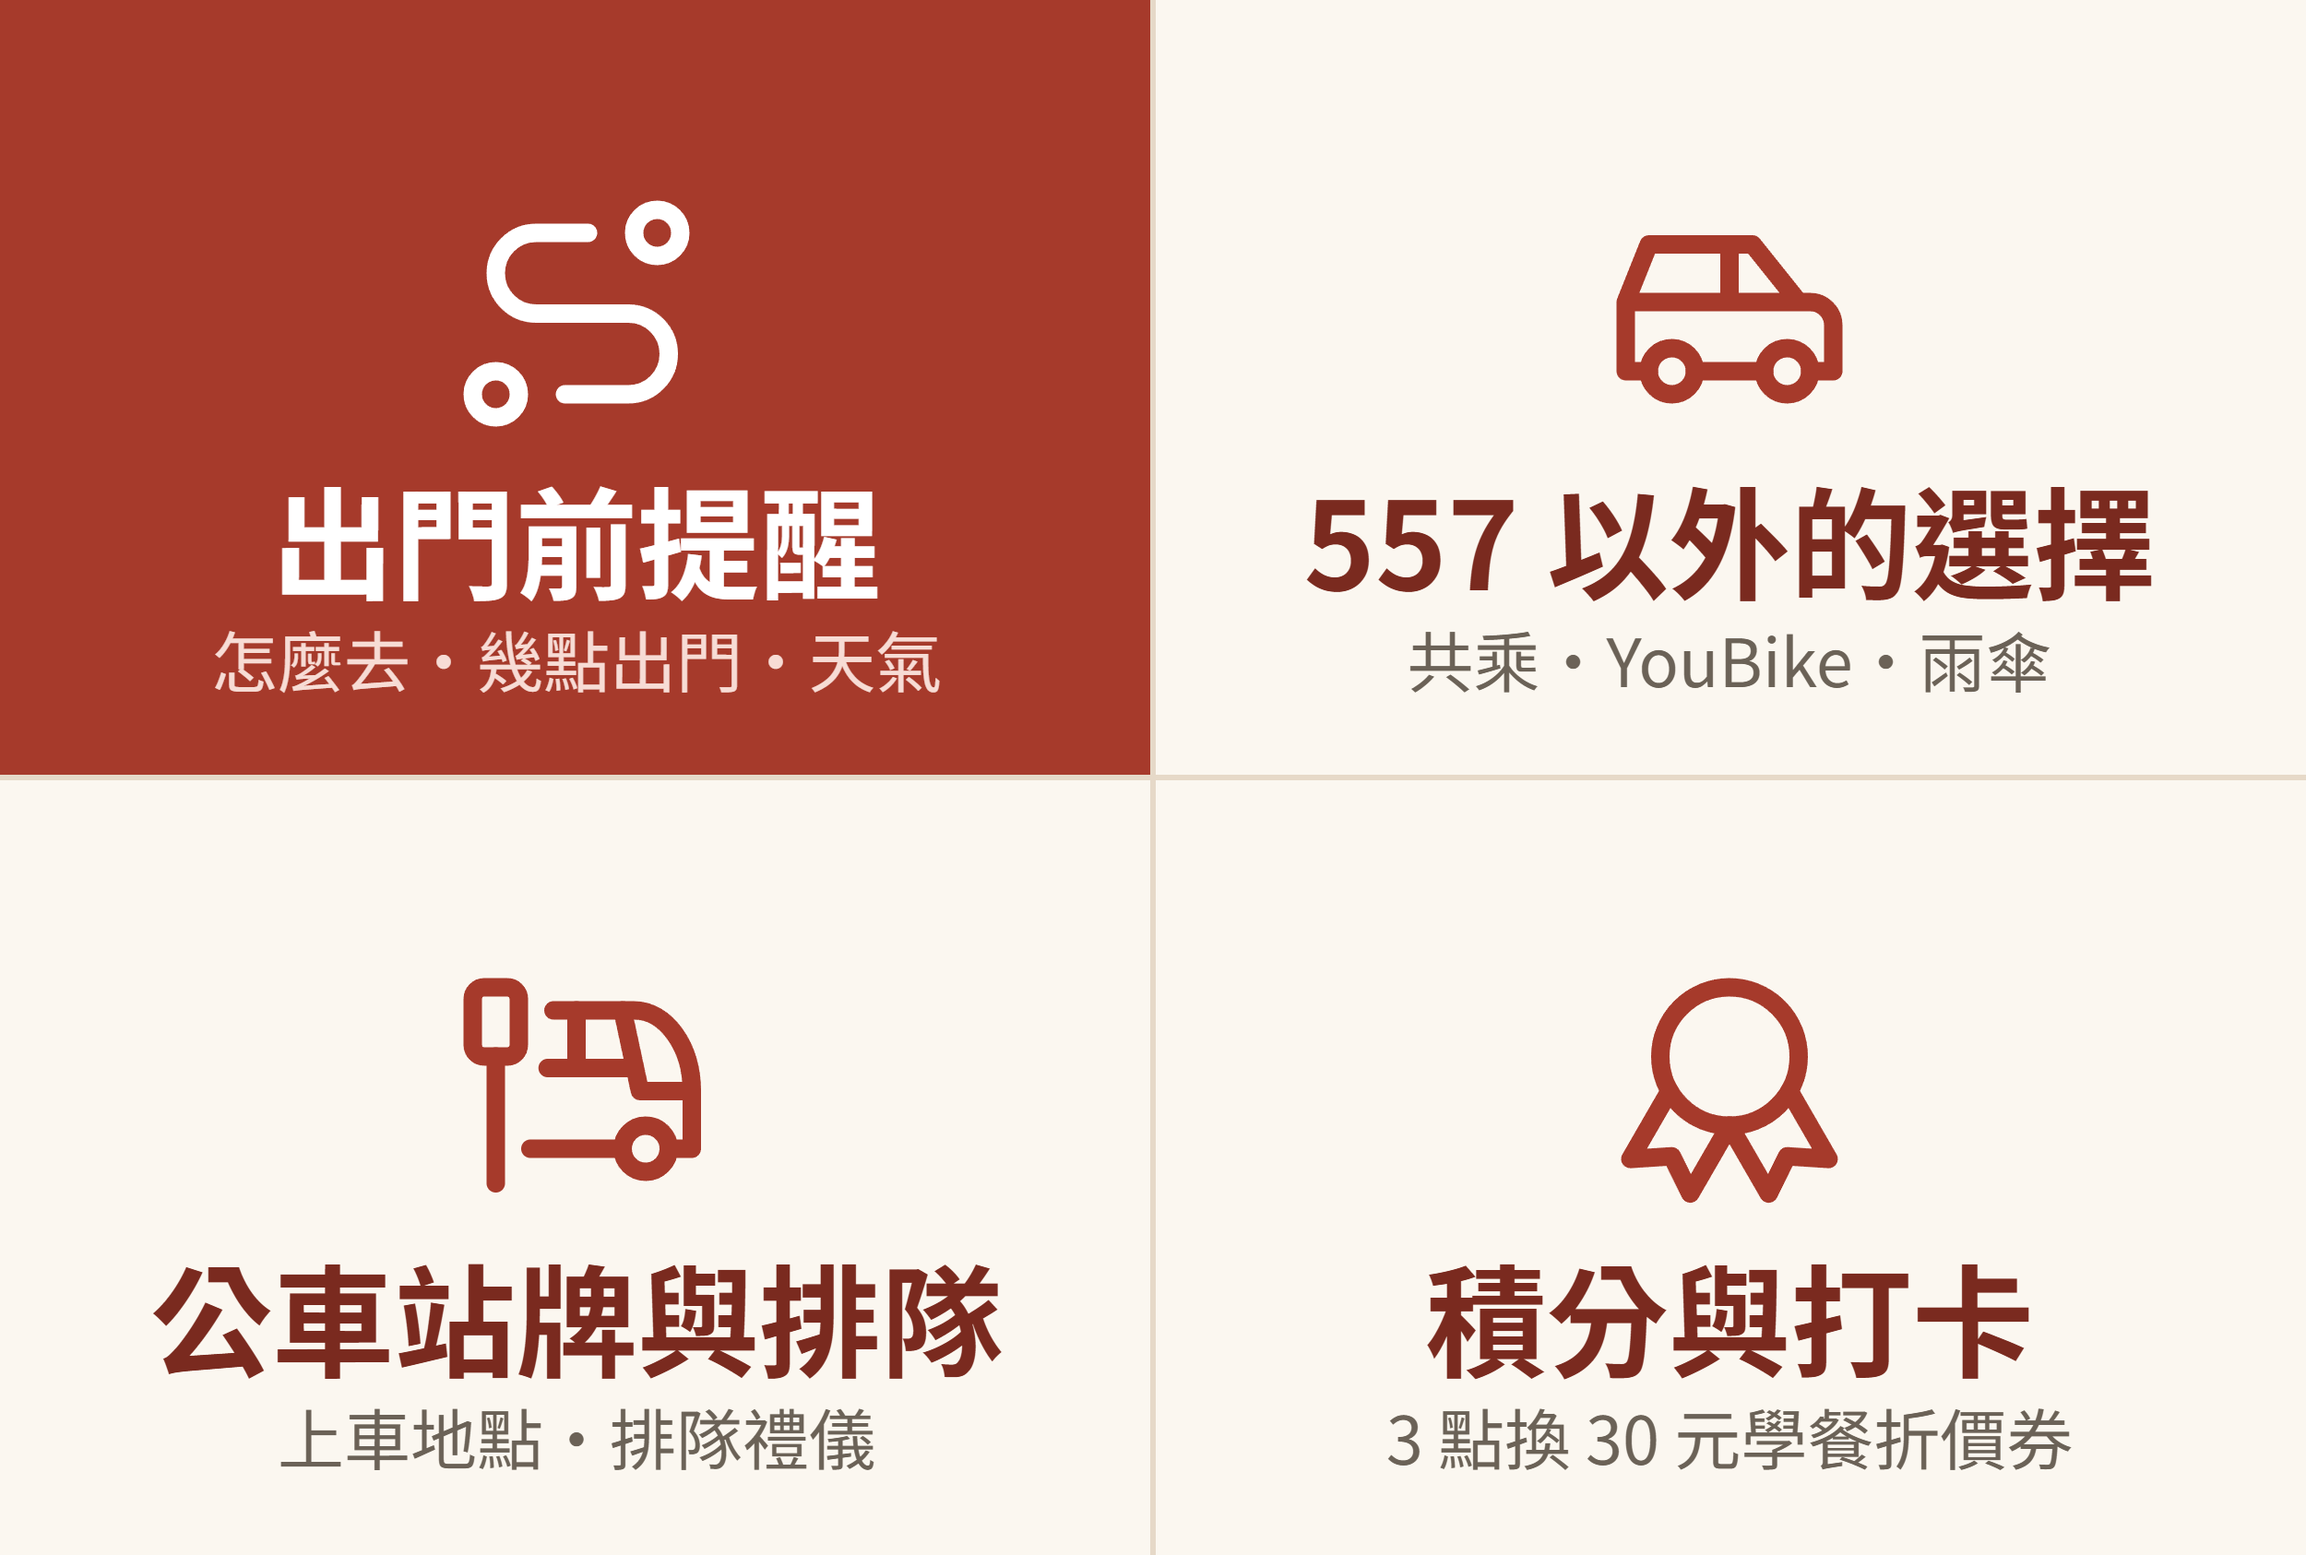
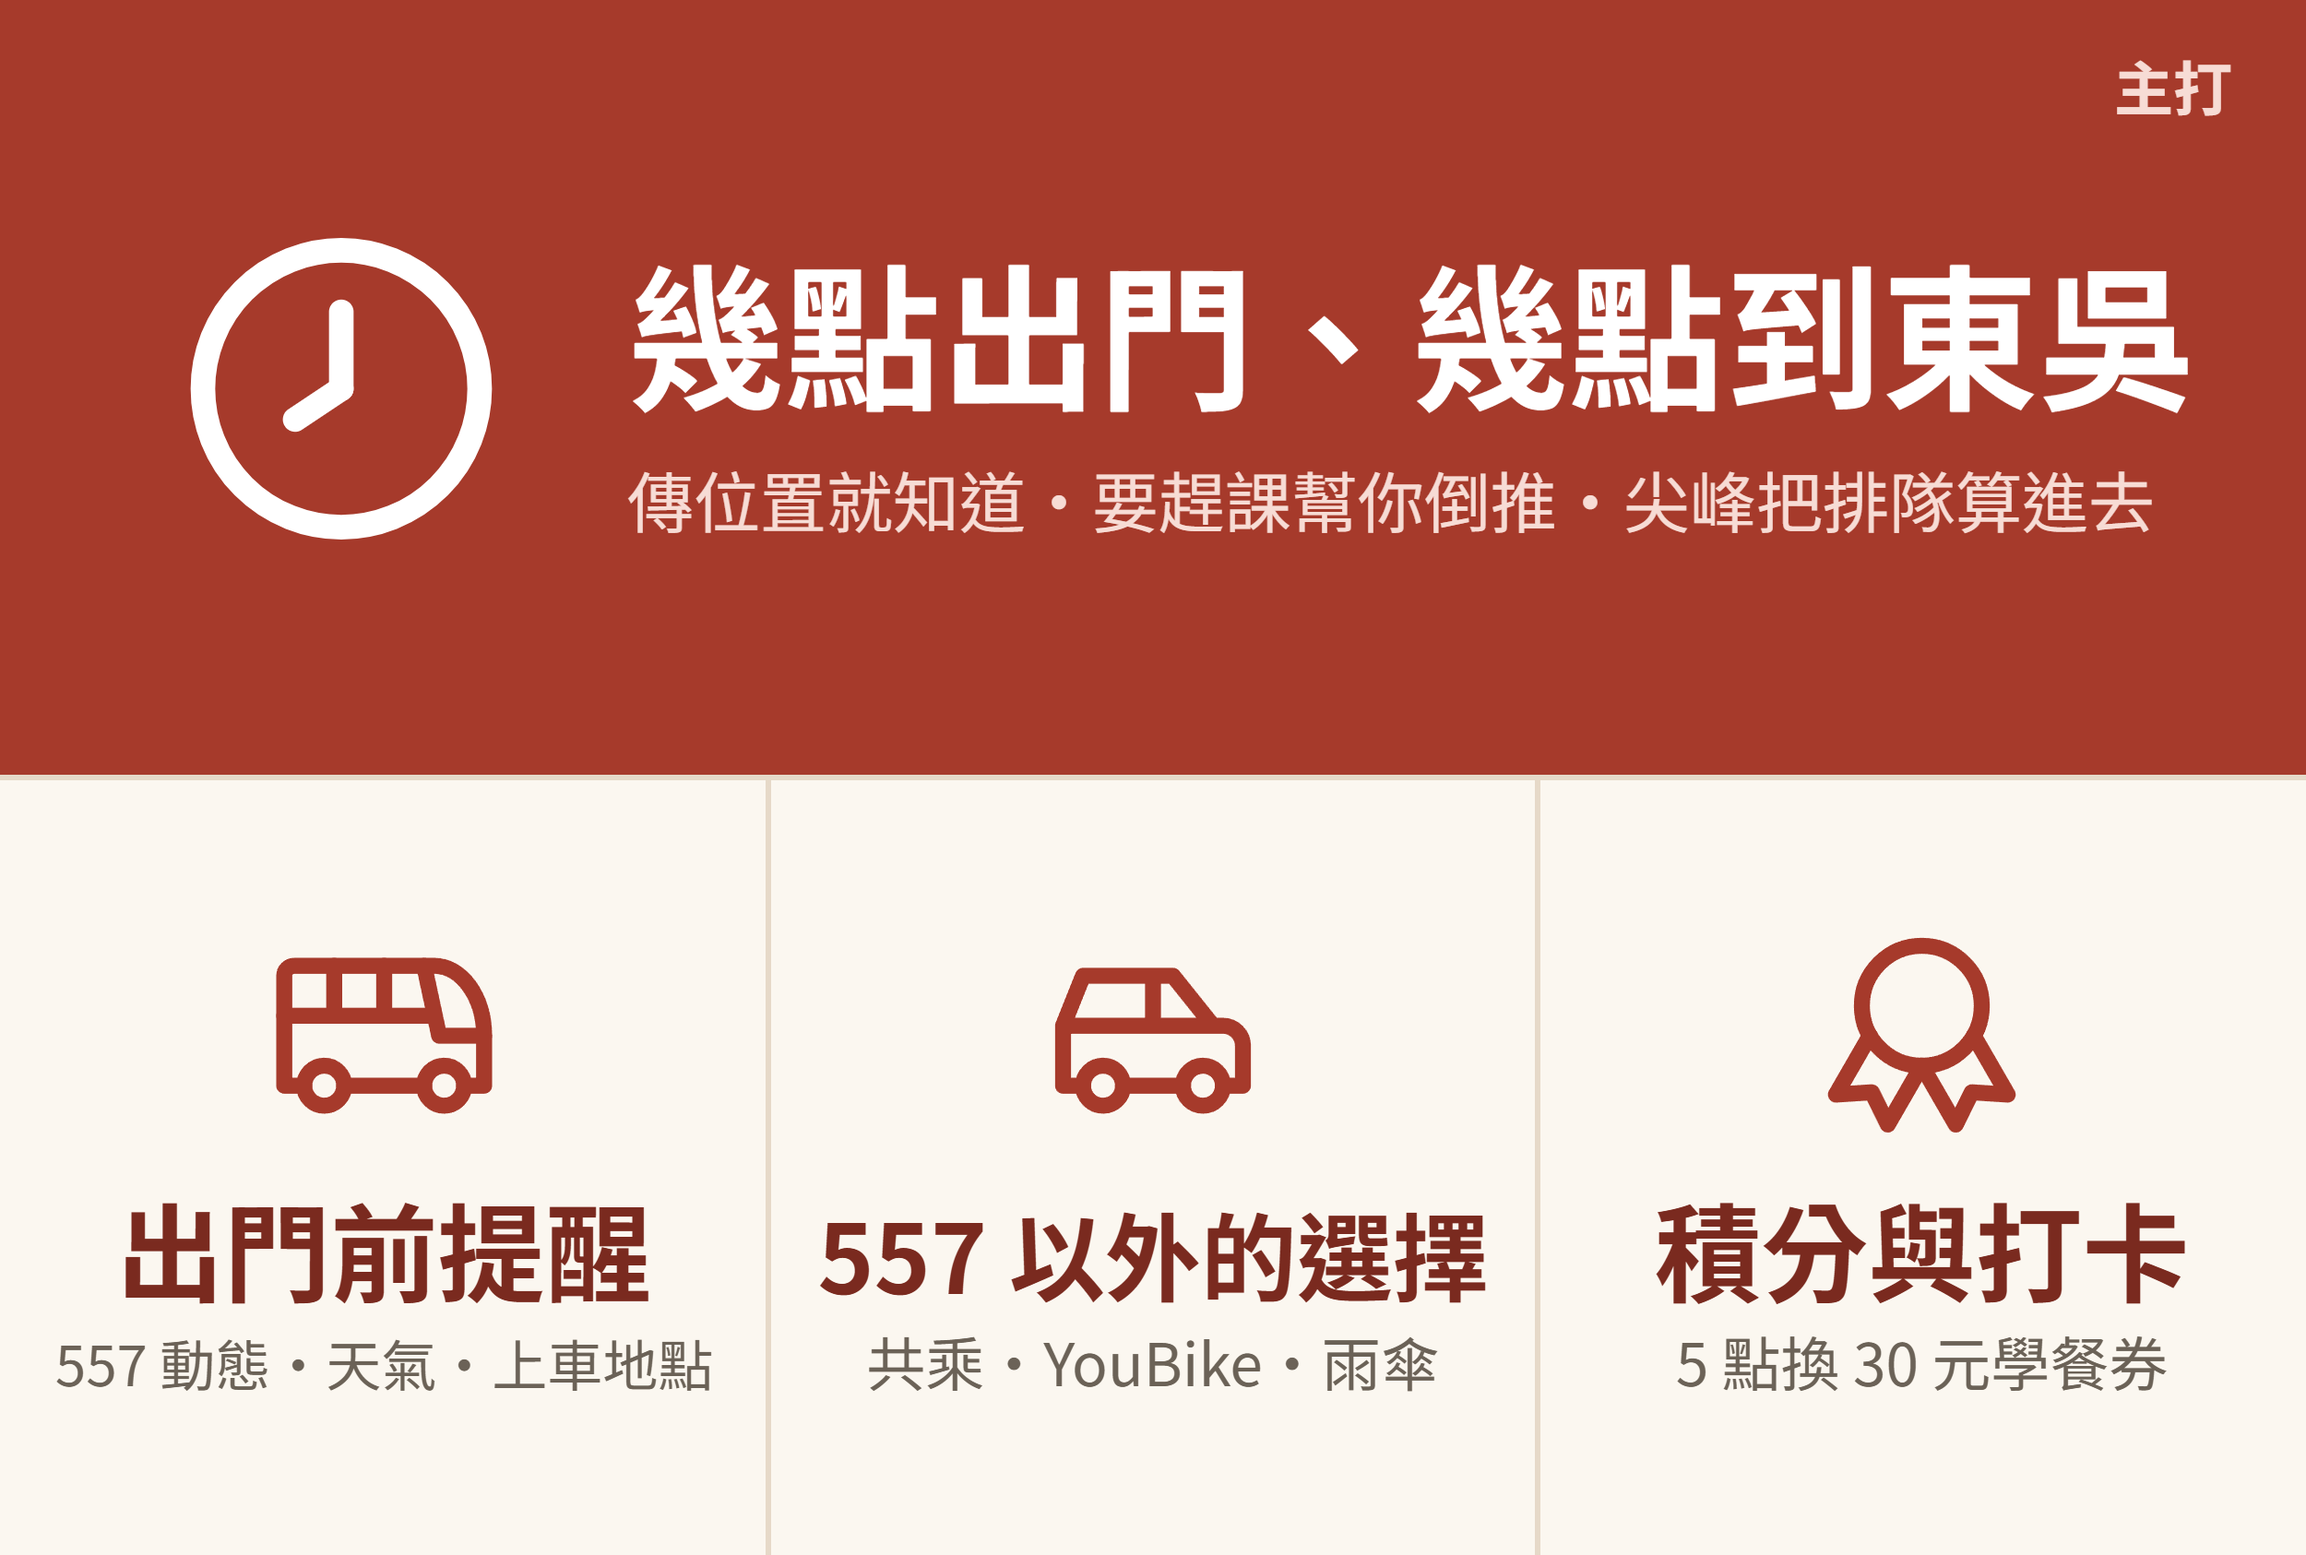
圖文選單改成上面一大格（幾點出門、幾點到東吳）＋下面三格；公車站牌與排隊禮儀併進出門前提醒

diff --git a/tests/preview-design.js b/tests/preview-design.js
@@ -51,13 +51,14 @@ function cardsPage() {
 <div class="wrap" id="cards">${items}</div>`;
 }
 
-// 圖文選單：四個分類（跟 bot/選單.gs 的 MENU 一樣），按了 Bot 會把那一類的功能按鈕傳到聊天室。
-// 上排左到右、下排左到右。text 是按了以後替使用者傳出去的字，要跟 LINE 後台設定的一樣
+// 圖文選單（2500×1686，11/28 改成「上面一大格＋下面三格」）：主打「幾點出門、幾點到東吳」放最上面整排。
+// 每一格的 text 是按了以後替使用者傳出去的字，要跟 LINE 後台設定的一樣（也要是 bot/選單.gs 認得的分類名稱）。
+// rect 是這一格的位置 [x, y, 寬, 高]，LINE 後台用「上 1 下 3」的版型；用 Messaging API 設定時照這個填 bounds。
 const MENU = [
-  { icon: 'route', label: '出門前提醒', hint: '怎麼去・幾點出門・天氣', text: '出門前提醒', primary: true },
-  { icon: 'car', label: '557 以外的選擇', hint: '共乘・YouBike・共享雨傘', text: '557 以外的選擇' },
-  { icon: 'bus-stop', label: '公車站牌與排隊', hint: '上車地點・排隊禮儀', text: '公車站牌與排隊' },
-  { icon: 'award', label: '積分與打卡', hint: '5 點換 30 元學餐折價券', text: '積分與打卡' },
+  { icon: 'clock-hour-8', label: '幾點出門、幾點到東吳', hint: '傳位置就知道・要趕課幫你倒推・尖峰把排隊算進去', text: '幾點出門、幾點到東吳', primary: true, rect: [0, 0, 2500, 843] },
+  { icon: 'bus', label: '出門前提醒', hint: '557 動態・天氣・上車地點', text: '出門前提醒', rect: [0, 843, 833, 843] },
+  { icon: 'car', label: '557 以外的選擇', hint: '共乘・YouBike・雨傘', text: '557 以外的選擇', rect: [833, 843, 834, 843] },
+  { icon: 'award', label: '積分與打卡', hint: '5 點換 30 元學餐券', text: '積分與打卡', rect: [1667, 843, 833, 843] },
 ];
 
 function menuPage() {
@@ -68,9 +69,9 @@ function menuPage() {
 <script>
 var MENU = ${JSON.stringify(MENU)};
 var UI = { brand: '#A63A2B', brandDark: '#7A2A1F', paper: '#FBF7F0', line: '#E6D9C8', muted: '#6B6257', soft: '#F7DCD5' };
-var COLS = MENU.length === 4 ? 2 : 3;
-var W = 2500, H = 1686, CW = W / COLS, CH = H / 2;
+var W = 2500, H = 1686;
 var canvas = document.getElementById('c'), ctx = canvas.getContext('2d');
+var FONT = '"Noto Sans TC","Microsoft JhengHei",sans-serif';
 
 // 圖示用 Tabler Icons（MIT 授權）。抓 SVG 回來把線條換成指定的顏色，再畫到畫布上
 function icon(name, color) {
@@ -88,24 +89,52 @@ function icon(name, color) {
   });
 }
 
-Promise.all(MENU.map(function (m) { return icon(m.icon, m.primary ? '#FFFFFF' : UI.brand); })).then(function (icons) {
+// 字太長就縮小，左右留 pad
+function fit(text, weight, size, maxW) {
+  ctx.font = weight + ' ' + size + 'px ' + FONT;
+  while (ctx.measureText(text).width > maxW && size > 20) { size -= 4; ctx.font = weight + ' ' + size + 'px ' + FONT; }
+  return size;
+}
+
+document.fonts.ready.then(function () {
+  return Promise.all(MENU.map(function (m) { return icon(m.icon, m.primary ? '#FFFFFF' : UI.brand); }));
+}).then(function (icons) {
   ctx.fillStyle = UI.paper; ctx.fillRect(0, 0, W, H);
   MENU.forEach(function (m, i) {
-    var x = (i % COLS) * CW, y = Math.floor(i / COLS) * CH;
-    if (m.primary) { ctx.fillStyle = UI.brand; ctx.fillRect(x, y, CW, CH); }
-    var s = 300;
-    ctx.drawImage(icons[i], x + (CW - s) / 2, y + 190, s, s);
-    ctx.textAlign = 'center'; ctx.textBaseline = 'alphabetic';
-    ctx.fillStyle = m.primary ? '#FFFFFF' : UI.brandDark;
-    ctx.font = '700 132px "Noto Sans TC","Microsoft JhengHei",sans-serif';
-    ctx.fillText(m.label, x + CW / 2, y + 640);
-    ctx.fillStyle = m.primary ? UI.soft : UI.muted;
-    ctx.font = '400 72px "Noto Sans TC","Microsoft JhengHei",sans-serif';
-    ctx.fillText(m.hint, x + CW / 2, y + 745);
+    var x = m.rect[0], y = m.rect[1], w = m.rect[2], h = m.rect[3];
+    ctx.textBaseline = 'alphabetic';
+    if (m.primary) {
+      // 主打：磚紅底，左邊大圖示、右邊兩行字
+      ctx.fillStyle = UI.brand; ctx.fillRect(x, y, w, h);
+      var s = 400, ix = x + 170, iy = y + (h - s) / 2;
+      ctx.drawImage(icons[i], ix, iy, s, s);
+      var tx = ix + s + 110, maxW = x + w - tx - 120;
+      ctx.textAlign = 'left';
+      ctx.fillStyle = '#FFFFFF';
+      fit(m.label, 700, 170, maxW);
+      ctx.fillText(m.label, tx, y + h / 2 + 10);
+      ctx.fillStyle = UI.soft;
+      fit(m.hint, 400, 76, maxW);
+      ctx.fillText(m.hint, tx, y + h / 2 + 150);
+      // 右上角小標
+      ctx.font = '700 64px ' + FONT; ctx.textAlign = 'right'; ctx.fillStyle = UI.soft;
+      ctx.fillText('主打', x + w - 80, y + 120);
+    } else {
+      var s2 = 260;
+      ctx.drawImage(icons[i], x + (w - s2) / 2, y + 150, s2, s2);
+      ctx.textAlign = 'center';
+      ctx.fillStyle = UI.brandDark;
+      fit(m.label, 700, 116, w - 90);
+      ctx.fillText(m.label, x + w / 2, y + 560);
+      ctx.fillStyle = UI.muted;
+      fit(m.hint, 400, 64, w - 90);
+      ctx.fillText(m.hint, x + w / 2, y + 660);
+    }
   });
   ctx.fillStyle = UI.line;
-  for (var c = 1; c < COLS; c++) ctx.fillRect(c * CW - 3, 0, 6, H);
-  ctx.fillRect(0, CH - 3, W, 6);
+  ctx.fillRect(0, 843 - 3, W, 6);
+  ctx.fillRect(833 - 3, 843, 6, H - 843);
+  ctx.fillRect(1667 - 3, 843, 6, H - 843);
   document.getElementById('status').textContent = '畫好了';
   document.getElementById('save').disabled = false;
   window.__ready = true;

diff --git a/tests/卡片.test.js b/tests/卡片.test.js
@@ -134,5 +134,5 @@ test('訊息紀錄裡存的是卡片的純文字版', () => {
   const row = env.sheets['訊息紀錄'].rows[1];
   assert.equal(row[2], '（加入好友）');
   assert.equal(row[3].split('\n')[0], '嗨！我是東吳通勤達人 🚌');
-  assert.ok(row[3].endsWith('今天要怎麼去學校？\n\n查出門時間、找其他交通方式，或看看怎麼避開 557 尖峰人潮。👇\n［出門前提醒］［557 以外的選擇］［公車站牌與排隊禮儀］［積分與打卡］'), row[3]);
+  assert.ok(row[3].endsWith('今天要怎麼去學校？\n\n查出門時間、找其他交通方式，或看看怎麼避開 557 尖峰人潮。👇\n［幾點出門、幾點到東吳］［出門前提醒］［557 以外的選擇］［積分與打卡］'), row[3]);
 });

diff --git a/README.md b/README.md
@@ -12,7 +12,7 @@
 |---|---|
 | 出門前提醒 | **🚇 幾點出門、幾點到東吳**（主打：傳位置看現在出發幾點到；選節次和大樓再傳位置，倒推最晚幾點出門；尖峰把排隊算進去）、比較所有路線（公車＋YouBike＋計程車共乘）、557 發車前提醒、557 即時動態、降雨查詢、雨天與考試週訂閱提醒 |
 | 557 以外的選擇 | 計程車共乘、YouBike 車數、共享雨傘（規劃與 Raingo 合作）、包車調查（規劃中） |
-| 公車站牌與排隊禮儀 | 557 最新上車地點、排隊禮儀短片；站牌改了推播給所有好友 |
+| 出門前提醒裡的「公車站牌與排隊禮儀」 | 557 最新上車地點、排隊禮儀短片；站牌改了推播給所有好友 |
 | 積分與打卡 | 到校打卡（走路進學校、早到、騎車到校）、出校打卡（走路出學校、騎車回士林，放學分流）；走路和早到用定位打兩次卡，騎車傳 YouBike 截圖；每種一天一次、一天最多 3 點，集滿 5 點換 30 元學餐折價券；我的紀錄、全校減碳。規則與防作弊見 [打卡防弊改善.md](打卡防弊改善.md) |
 | 學校端 | 每晚 10 點 AI 整理每日報表，寄給德育中心、軍訓室 |
 
@@ -29,7 +29,7 @@
 
 **3. 試算表**：手動匯入 `bot/行事曆.csv`，分頁名稱叫「行事曆」；其他分頁 Bot 會自己建。
 
-**4. LINE 後台**：自動回應關閉、Webhook 開啟。圖文選單用 `design/圖文選單.png`（大型 4 格），四格傳出的文字：`出門前提醒`、`557 以外的選擇`、`公車站牌與排隊禮儀`、`積分與打卡`。
+**4. LINE 後台**：自動回應關閉、Webhook 開啟。圖文選單用 `design/圖文選單.png`（大型 2500×1686，**上面一大格＋下面三格**），每一格傳出的文字：上面 `幾點出門、幾點到東吳`；下面左到右 `出門前提醒`、`557 以外的選擇`、`積分與打卡`。舊的四格選單傳的字（`公車站牌與排隊禮儀` 等）Bot 也還認得。改圖：`npm run preview` 後開 http://localhost:4557/menu 按「存成 PNG」
 
 ## 改程式
 
